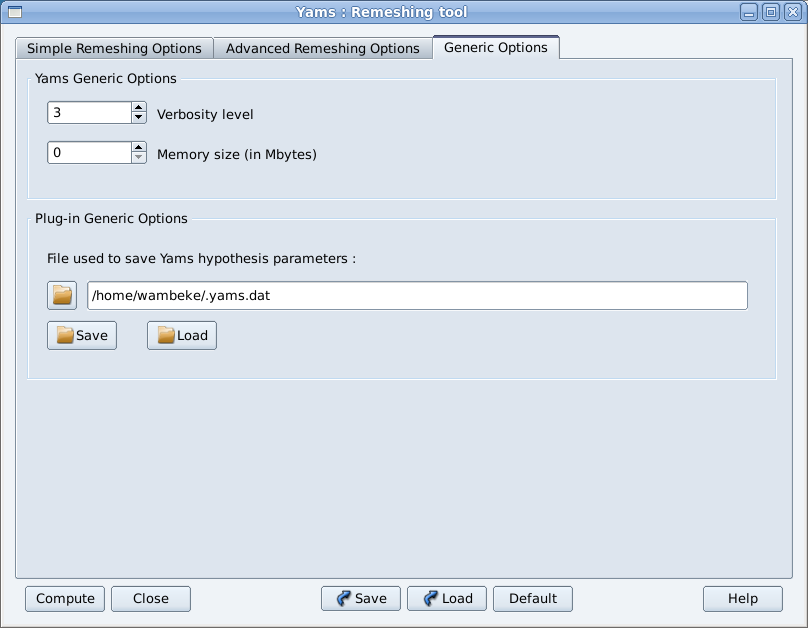
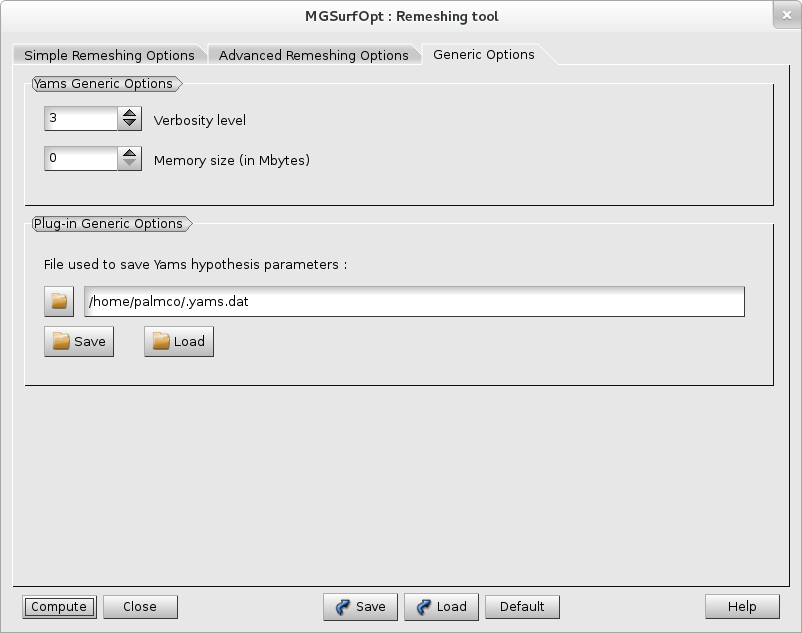
REG: SurfOpt plugin : Documentation update + small corrections

Changed region(s): [[0.0, 0.0, 1.0, 1.0]]

diff --git a/src/Tools/YamsPlug/doc/Advanced_params.rst b/src/Tools/YamsPlug/doc/Advanced_params.rst
@@ -1,16 +1,19 @@
 Advanced Remeshing Options 
 ==========================
 
-** be aware that no control of coherency is done when you set these parameters : for instance, geometrical approximation is only allowed when yams compute a mesh for finite elements but the GUI will let you choose geometrical approximation and compute a visualisation mesh. read DISTENE documentation **
+.. note:: 
+  Be aware that no control of coherency is done when you set these parameters : for instance, geometrical approximation is only allowed when SurfOpt computes a mesh for finite elements but the GUI will let you choose geometrical approximation and compute a visualisation mesh. See Distene's documentation for more details : 
+  :download:`MeshGems-SurfOpt: The automatic surface remeshing tool of the MeshGems Suite <files/mg-surfopt_user_manual.pdf>`.
 
-  - **Ridge detection**
+  
+- **Ridge detection**
 if not set (ridge detection disabled ), MeshGems-SurfOpt will not try to detect any new ridge edge by its own mechanism : 
 it will consider as ridge only the ridges given in the mesh.  All non-ridge edges that would have been detected as ridge by the Ridge angle paramaeter (see below split edge)  will be considered as part of the same continuous patch.  This option should not be checked when all the known ridges of the mesh are given and when all other possible ridges are not geometric ridges to take into account.
 
-  - **Point smoothing**
+- **Point smoothing**
 When not set (point smoothing is disabled), MeshGems-SurfOpt will not try to move the initial given vertices (along an edge, a ridge or onto the surface), hence MeshGems-SurfOpt will only swap edges, remove vertices or add vertices (refines) to change the mesh.
 
-  - **Geometrical  approximation**
+- **Geometrical  approximation**
 this field as well as the Chordal deviation tolerance parameter,enables the user to bound the maximal chordal deviation allowed. it avoids having sharp angles. , that is, the maximal distance allowed between the detected curve and the plane of the corresponding mesh face. It avoids having faces too far away from the curve they represent.
 
 .. image:: images/Tolerance.png
@@ -20,23 +23,23 @@ this field as well as the Chordal deviation tolerance parameter,enables the user
 This parameter P enables the user to specify the maximal chordal deviation  E relatively to the local curvature. the maximal chordal deviation will be set to E=P x r (r is the radius of the circumcercle) if the units parameter is set to relative or E=P if the units parameter is set to absolute.
 
 
-  - **Ridge angle**
+- **Ridge angle**
 
 This parameter specifies the angular values  for the automatic detection of ridges and corners. A ridge is automatically detected if the angle between the normal vectors of two adjacent faces exceeds this value.
 
 
-  - **Maximal/Minimal size around vertices**
+- **Maximal/Minimal size around vertices**
 
 These two parameters allow the user to prescribe a Maximal/Minimal size for the mesh elements, ie the lengths of the edges. 
 
 
-  - **Mesh gradation**
+- **Mesh gradation**
 This paramater P controls the element size variation : MeshGems-SurfOpt will avoid having two adjacent egdes which sizes vary more than th given gradation. a size correction is applied to the size map : if two adjacent edges are respectively e1 and e2 long and e2 > Pxe1, then, the new size for the second edge will be set to P x e1.
-**This procedure is desactived if P=-1***
+**This procedure is desactived if P=-1**
 
 
 
-  - **Split edge**
+- **Split edge**
 If this option is activated, MeshGems-SurfOpt creates new vertices placed on the curved surface and adds them to elements.
 It may be used to obtain higher order elements.
 

diff --git a/src/Tools/YamsPlug/doc/Generics_params.rst b/src/Tools/YamsPlug/doc/Generics_params.rst
@@ -10,12 +10,12 @@ This parameter (between 0 and 10) indicates the amount of information that MeshG
 
 
 - **Memory Size**
-You usually don't have to set this parameter but you can choose to limit the amount of memory used by MeshGems-SurfOpt. - It requires 370 bytes per node -. Or, if you try to enrich a already big mesh (up to 2 millions nodes), you exceptionally, need to allocate more memory.
+You usually don't have to set this parameter but you can choose to limit the amount of memory used by MeshGems-SurfOpt -- It requires 370 bytes per node. Or, if you try to enrich a already big mesh (up to 2 millions nodes), you exceptionally, need to allocate more memory.
     
     
 - **File** 
 
-You can change the file used to store remeshing hypotheses. see paragraph :ref:`hypothesis-label` for further informations.
+You can change the file used to store remeshing hypotheses, see :ref:`hypothesis-label` for further informations.
 
 .. image:: images/Generic.png
    :align: center

diff --git a/src/Tools/YamsPlug/doc/Mandatory_params.rst b/src/Tools/YamsPlug/doc/Mandatory_params.rst
@@ -1,7 +1,7 @@
 Simple Remeshing Options
 =========================
 
-simple case 
+Simple case 
 -----------
 
    All options, but the input mesh, have default values. however, **you have to specify these
@@ -42,7 +42,7 @@ This is the main remeshing Option.  SurfOpt always does quality improvement. It 
 
      It is equivalent to SurfOpt's batch option *- - uniform_flat_subdivision yes*.
 
-   - **Smoothing**
+   - **Sandpapering**
 
      A surface sandpapering without shrinkage of the given surface triangulation is performed, i.e., the high curvature variations of the given surface will be smoothed out without shrinking the volume in doing so. If ridges are defined, they will be kept as they are in the resulting mesh. It could modify the geometry.
      It is equivalent to SurfOpt's batch option *- - sand_paper yes*.
